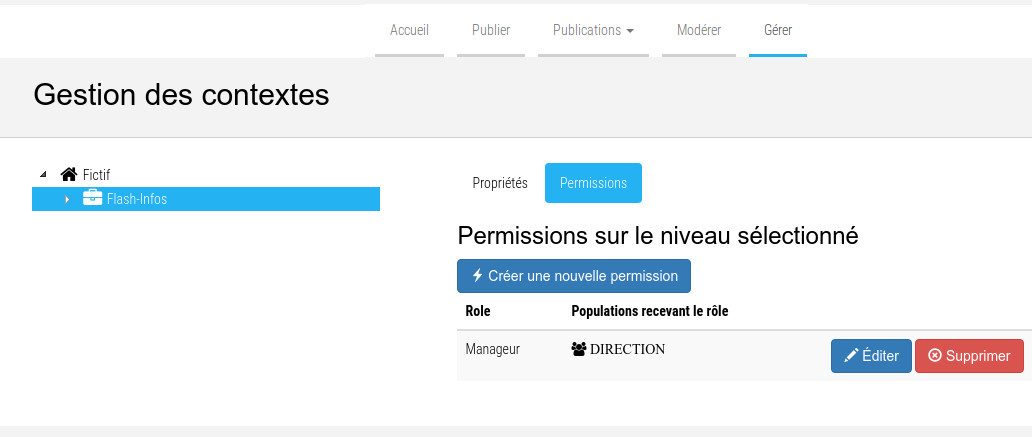
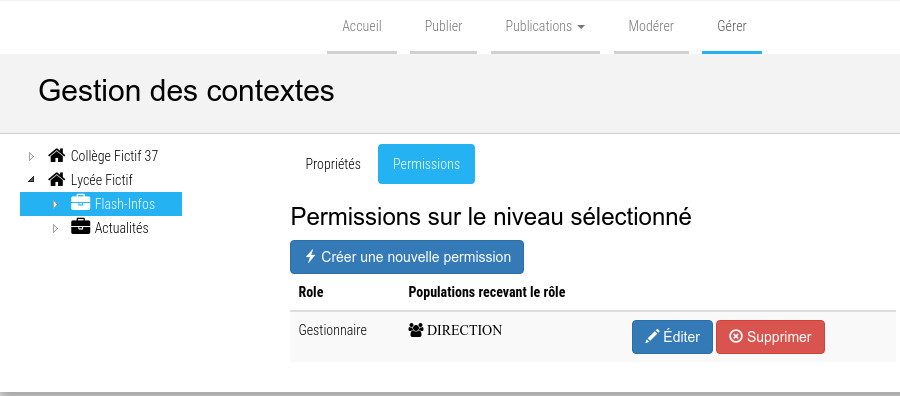
renommage de manager en gestionnaire

diff --git a/Lycees/Publisher/ContextesPublication.html b/Lycees/Publisher/ContextesPublication.html
@@ -90,11 +90,11 @@
         rôles sur le contexte Flash-infos.</div>
       <div> <img title="Permissions pour le contexte Flash-infos" alt="Permissions pour le contexte Flash-infos"
           src="images/GestionFlashInfosPermissions.jpg">
-        <p>On voit ici que le rôle "<i>Manager</i>" a été attribué aux membres
+        <p>On voit ici que le rôle "<i>Gestionnaire</i>" a été attribué aux membres
           du groupe "<i>DIRECTION</i>".</p>
         <p>En cliquant sur le bouton "<i>Éditer</i>", il sera possible de :</p>
         <ul>
-          <li>ajouter une nouvelle population cible au rôle concerné (rôle "<i>Manageur</i>"
+          <li>ajouter une nouvelle population cible au rôle concerné (rôle "<i>Gestionnaire</i>"
             sur cet exemple)</li>
           <li>modifier l'attribution déjà effectuée (sur cet exemple, changer le
             rôle pour le groupe "<i>DIRECTION</i>")</li>
@@ -110,7 +110,7 @@
       <div><img title="Créer une permissions pour le contexte Flash-infos" alt="Créer une permissions pour le contexte Flash-infos"
           src="images/GestionFlashInfosCreerPermissions.jpg">
         <p>On peut alors ajouter un rôle ("<i>Éditeur</i>", "<i>Contributeur</i>"
-          ou "<i>Manageur</i>") et choisir à qui il faut ajouter ce rôle
+          ou "<i>Gestionnaire</i>") et choisir à qui il faut ajouter ce rôle
           (utilisateur ou groupe d'utilisateurs).</p>
         <p>Pour attribuer le rôle choisi à une personne, il suffit de cliquer
           sur "<i>+ Personne</i>" et de saisir son nom et/ou prénom dans le
@@ -147,12 +147,12 @@
             <ul>
               <li><i>Simple attribution de rôles</i> : le gestionnaire du
                 contexte ou d'une rubrique du contexte pourra attribuer les
-                rôles (Contributeur, Éditeur ou Manageur) à des utilisateurs ou
+                rôles (Contributeur, Éditeur ou Gestionnaire) à des utilisateurs ou
                 à des groupes d'utilisateurs en leur permettant d'écrire à tous
                 les publics de l'établissement</li>
               <li><i>Attribution de rôles sur populations cibles</i> : le
                 gestionnaire du contexte ou d'une rubrique du contexte pourra
-                attribuer les rôles (Contributeur, Éditeur ou Manageur) à des
+                attribuer les rôles (Contributeur, Éditeur ou Gestionnaire) à des
                 utilisateurs ou à des groupes d'utilisateurs en limitant leurs
                 publications à certains publics</li>
             </ul>
@@ -212,7 +212,7 @@
         <div><img title="Créer une permissions pour le contexte Actualités" alt="Créer une permissions pour le contexte Actualités"
             src="images/GestionActualitesCreerPermissions.jpg">
           <p>On peut alors ajouter un rôle ("<i>Éditeur</i>", "<i>Contributeur</i>"
-            ou "<i>Manager</i>") et choisir à qui il faut ajouter ce rôle
+            ou "<i>Gestionnaire</i>") et choisir à qui il faut ajouter ce rôle
             (utilisateur ou groupe d'utilisateurs).</p>
           <p>Pour attribuer le rôle choisi à une personne, il suffit de cliquer
             sur "<i>+ Personne</i>" et de saisir son nom et/ou prénom dans le

diff --git a/Lycees/Publisher/Definitions.html b/Lycees/Publisher/Definitions.html
@@ -80,11 +80,11 @@
           Les rôles attribuables sont&nbsp;:<br>
           <ul>
             <li><b><i>Contributeur</i></b>&nbsp;: permet de proposer des
-              articles qui devront être validés par un manageur pour être
+              articles qui devront être validés par un gestionnaire pour être
               publiés (système de modération).</li>
             <li><b><i>Éditeur</i></b>&nbsp;: permet de rédiger des articles et
               de les publier sans modération.</li>
-            <li><b><i>Manageur</i></b>&nbsp;: permet de gérer entièrement les
+            <li><b><i>Gestionnaire</i></b>&nbsp;: permet de gérer entièrement les
               éléments à partir du niveau sur lequel il est attribué.</li>
           </ul>
         </div>

diff --git a/Lycees/Publisher/PublierActualite.html b/Lycees/Publisher/PublierActualite.html
@@ -156,11 +156,11 @@
           <li> <i>Publier</i> qui permet de sauvegarder et de publier
             l'actualité, sachant que :</li>
           <ul>
-            <li>si le rédacteur est <i>éditeur</i> ou <i>manager</i> dans le
+            <li>si le rédacteur est <i>éditeur</i> ou <i>gestionnaire</i> dans le
               contexte ou la rubrique, l'actualité sera directement publiée</li>
             <li>si le rédacteur n'a que le rôle <i>contributeur</i> pour le
               contexte ou la rubrique, <b>l'actualité devra être validée par un
-                manager du contexte ou de la rubrique</b> (modération).</li>
+                gestionnaire du contexte ou de la rubrique</b> (modération).</li>
           </ul>
         </ul>
       </div>

diff --git a/Lycees/Publisher/ModererPublications.html b/Lycees/Publisher/ModererPublications.html
@@ -21,9 +21,9 @@
           <hr></div>
         <p>Les utilisateurs qui ont un rôle de <i>contributeur</i> sur un
           contexte ne peuvent que proposer des publications qui ne seront
-          publiées que lorsqu'un <b><i>manager</i></b> les aura modérées.
+          publiées que lorsqu'un <b><i>gestionnaire</i></b> les aura modérées.
           L'accès à la modération n'est possible que pour les utilisateurs qui
-          ont le rôle "<i>Manager</i>".</p>
+          ont le rôle "<i>Gestionnaire</i>".</p>
         <p>En cliquant sur "<i>Modérer</i>" dans le menu d'accueil ou dans le
           menu du haut d'écran, l'utilisateur peut voir les publications qu'il
           doit modérer pour soit les valider, soit les supprimer, soit les

diff --git a/Lycees/Publisher/PublierFlashInfo.html b/Lycees/Publisher/PublierFlashInfo.html
@@ -87,10 +87,10 @@
           <li> <i>Publier</i> qui permet de sauvegarder et de publier la
             flash-info, sachant que :</li>
           <ul>
-            <li>si le rédacteur est <i>éditeur</i> ou <i>manager</i> dans le
+            <li>si le rédacteur est <i>éditeur</i> ou <i>gestionnaire</i> dans le
               contexte, la flash-info sera directement publiée</li>
             <li>si le rédacteur n'a que le rôle <i>contributeur</i> pour le
-              contexte, <b>la flash-info devra être validée par un manager du
+              contexte, <b>la flash-info devra être validée par un gestionnaire du
                 contexte</b> (modération).</li>
           </ul>
         </ul>
